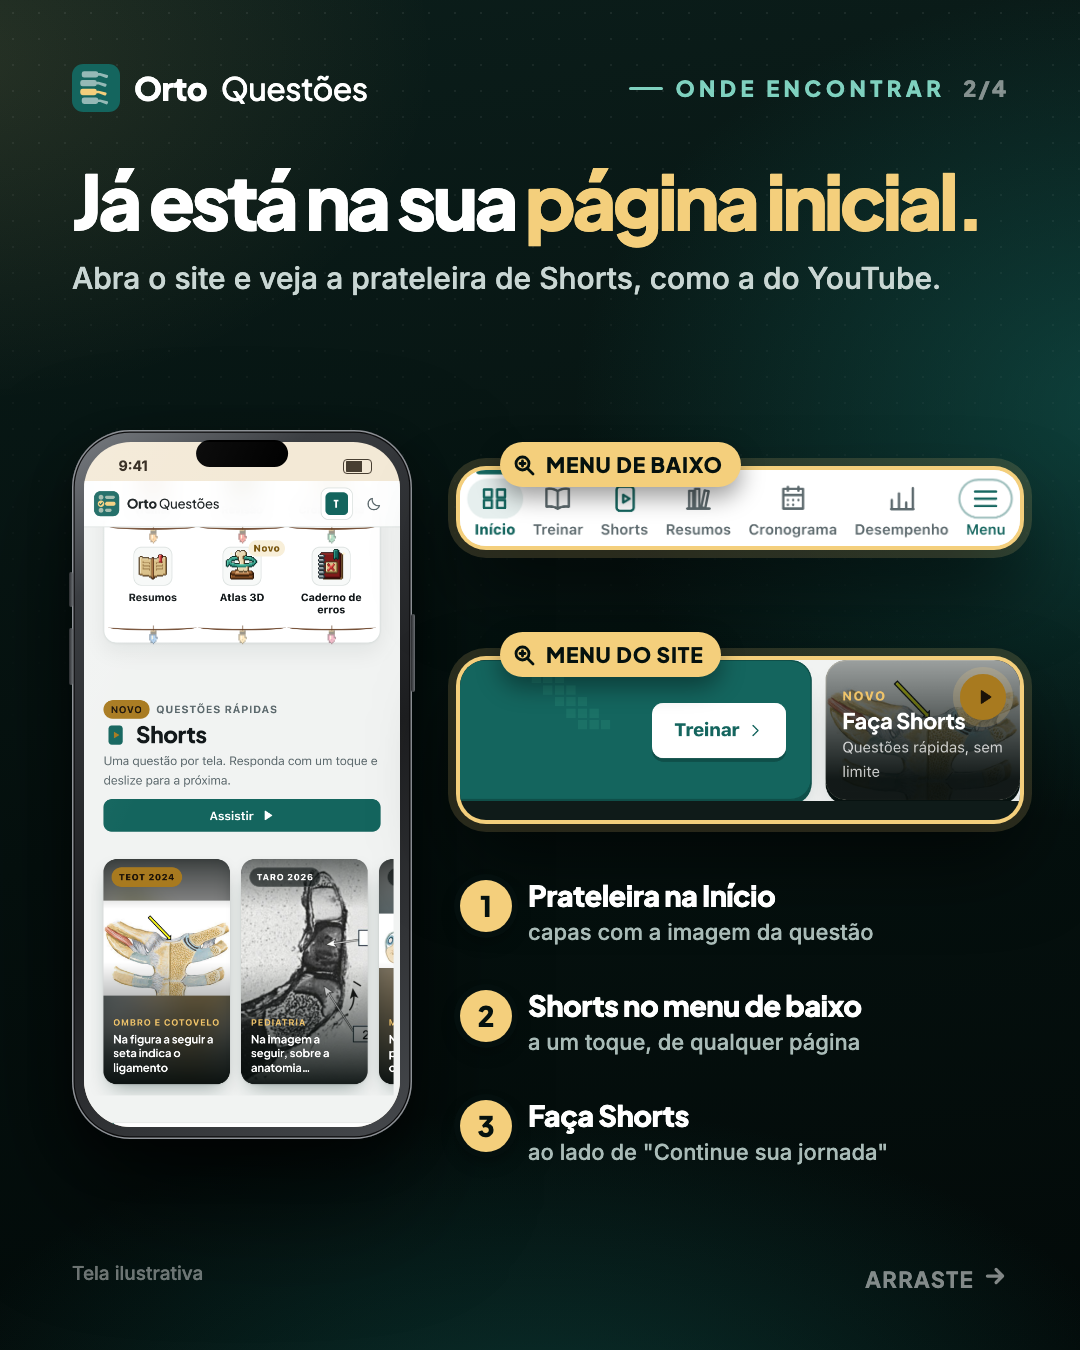
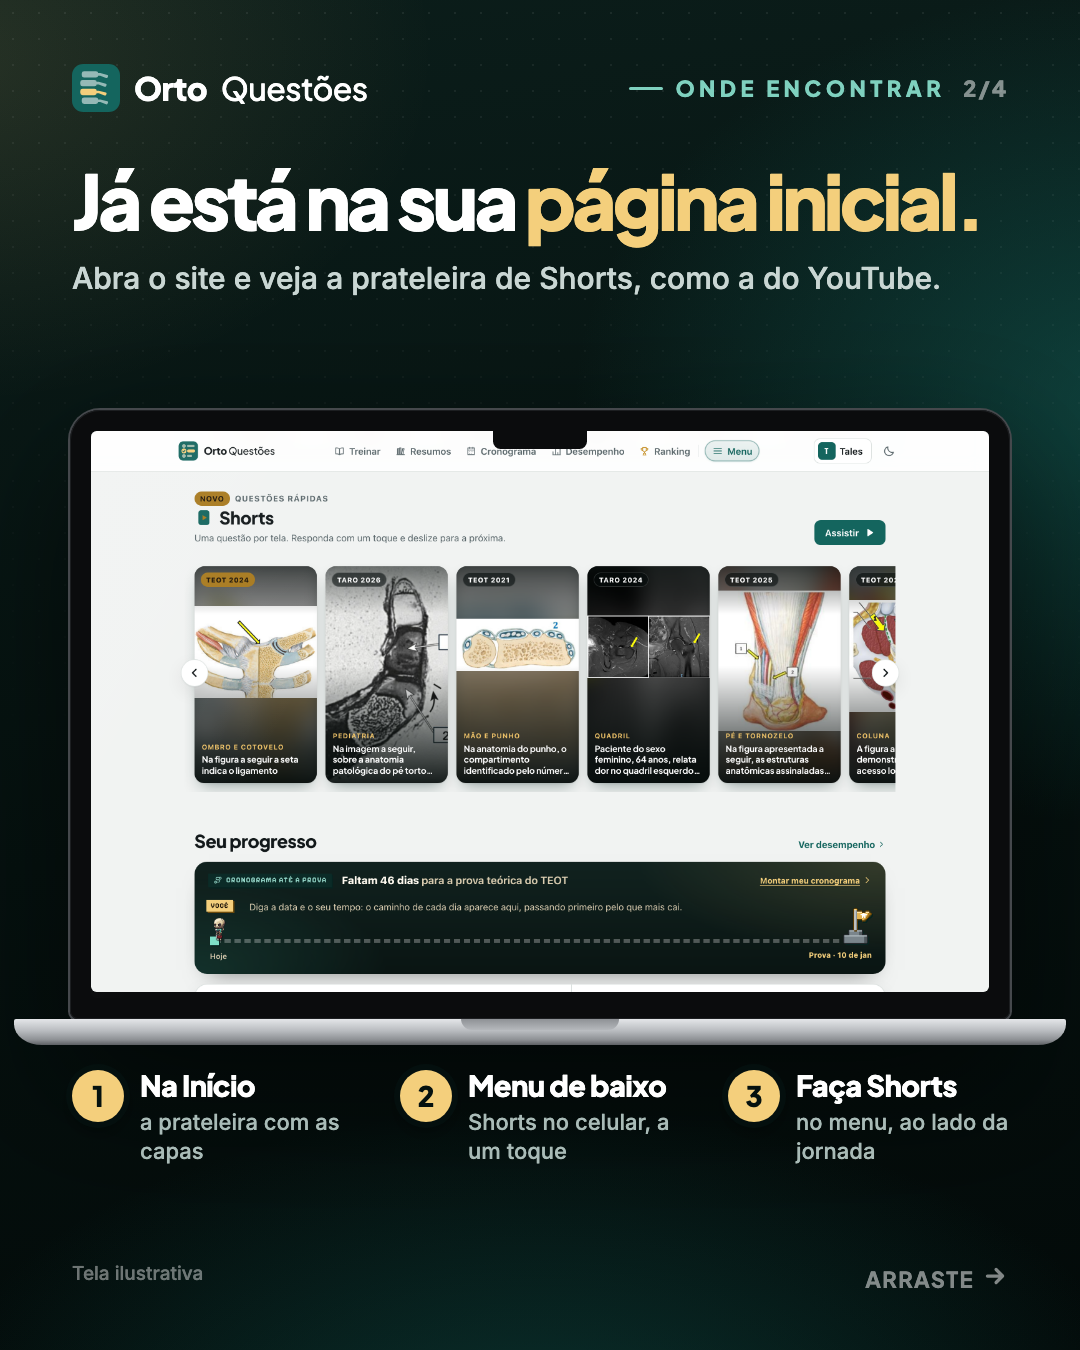
Post dos Shorts: slide 2 com a página inicial grande no computador

diff --git a/marketing/instagram/posts/2026-11-25-shorts/post.html b/marketing/instagram/posts/2026-11-25-shorts/post.html
@@ -201,14 +201,10 @@ body.claro .r.conf { color: #8a5f12; background: rgba(244,207,124,.3); } body.cl
     <h1>Já está na sua <em>página inicial.</em></h1>
     <p class="sub">Abra o site e veja a prateleira de Shorts, como a do YouTube.</p>
   </div>
-  <div class="iphone" data-tela="cel-inicio" style="--w:340px; left:72px; top:430px; --y:0%"></div>
-  <div class="lupa" style="left:460px; top:470px; width:560px; background:#f1f3f2"><img src="telas/barra.png" alt=""></div>
-  <div class="lupa-rot" style="left:500px; top:442px"><i data-icone="lente"></i>Menu de baixo</div>
-  <div class="lupa janela" style="left:460px; top:660px; width:560px; height:160px; background:#0f1b19"><img src="telas/menu-topo-mac.png" alt="" style="width:1250px; left:-690px; top:0"></div>
-  <div class="lupa-rot" style="left:500px; top:632px"><i data-icone="lente"></i>Menu do site</div>
-  <div class="anota" style="left:460px; top:880px; width:560px"><i class="pino">1</i><div><b>Prateleira na Início</b><span>capas com a imagem da questão</span></div></div>
-  <div class="anota" style="left:460px; top:990px; width:560px"><i class="pino">2</i><div><b>Shorts no menu de baixo</b><span>a um toque, de qualquer página</span></div></div>
-  <div class="anota" style="left:460px; top:1100px; width:560px"><i class="pino">3</i><div><b>Faça Shorts</b><span>ao lado de "Continue sua jornada"</span></div></div>
+  <div class="mac" data-mac="mac-inicio" style="--w:940px; left:70px; top:410px"></div>
+  <div class="anota" style="left:72px; top:1070px; width:300px"><i class="pino">1</i><div><b>Na Início</b><span>a prateleira com as capas</span></div></div>
+  <div class="anota" style="left:400px; top:1070px; width:300px"><i class="pino">2</i><div><b>Menu de baixo</b><span>Shorts no celular, a um toque</span></div></div>
+  <div class="anota" style="left:728px; top:1070px; width:290px"><i class="pino">3</i><div><b>Faça Shorts</b><span>no menu, ao lado da jornada</span></div></div>
   <p class="nota-tela" style="left:72px; top:1262px">Tela ilustrativa</p>
   <div class="arraste">Arraste <i data-icone="seta"></i></div>
 </section>
